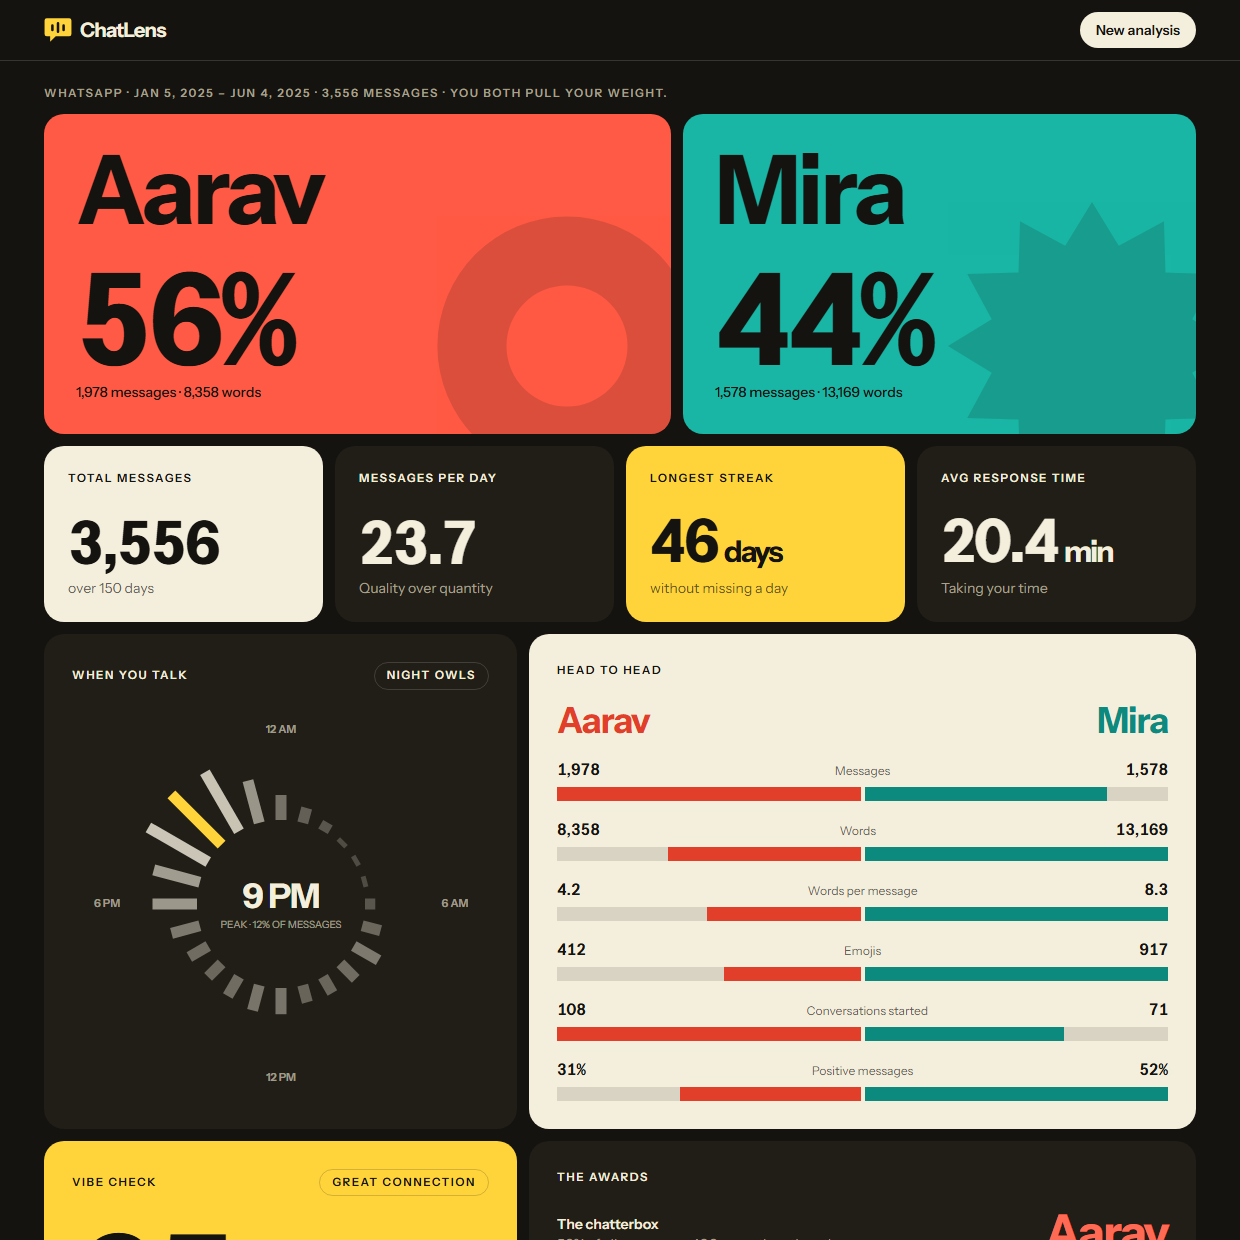
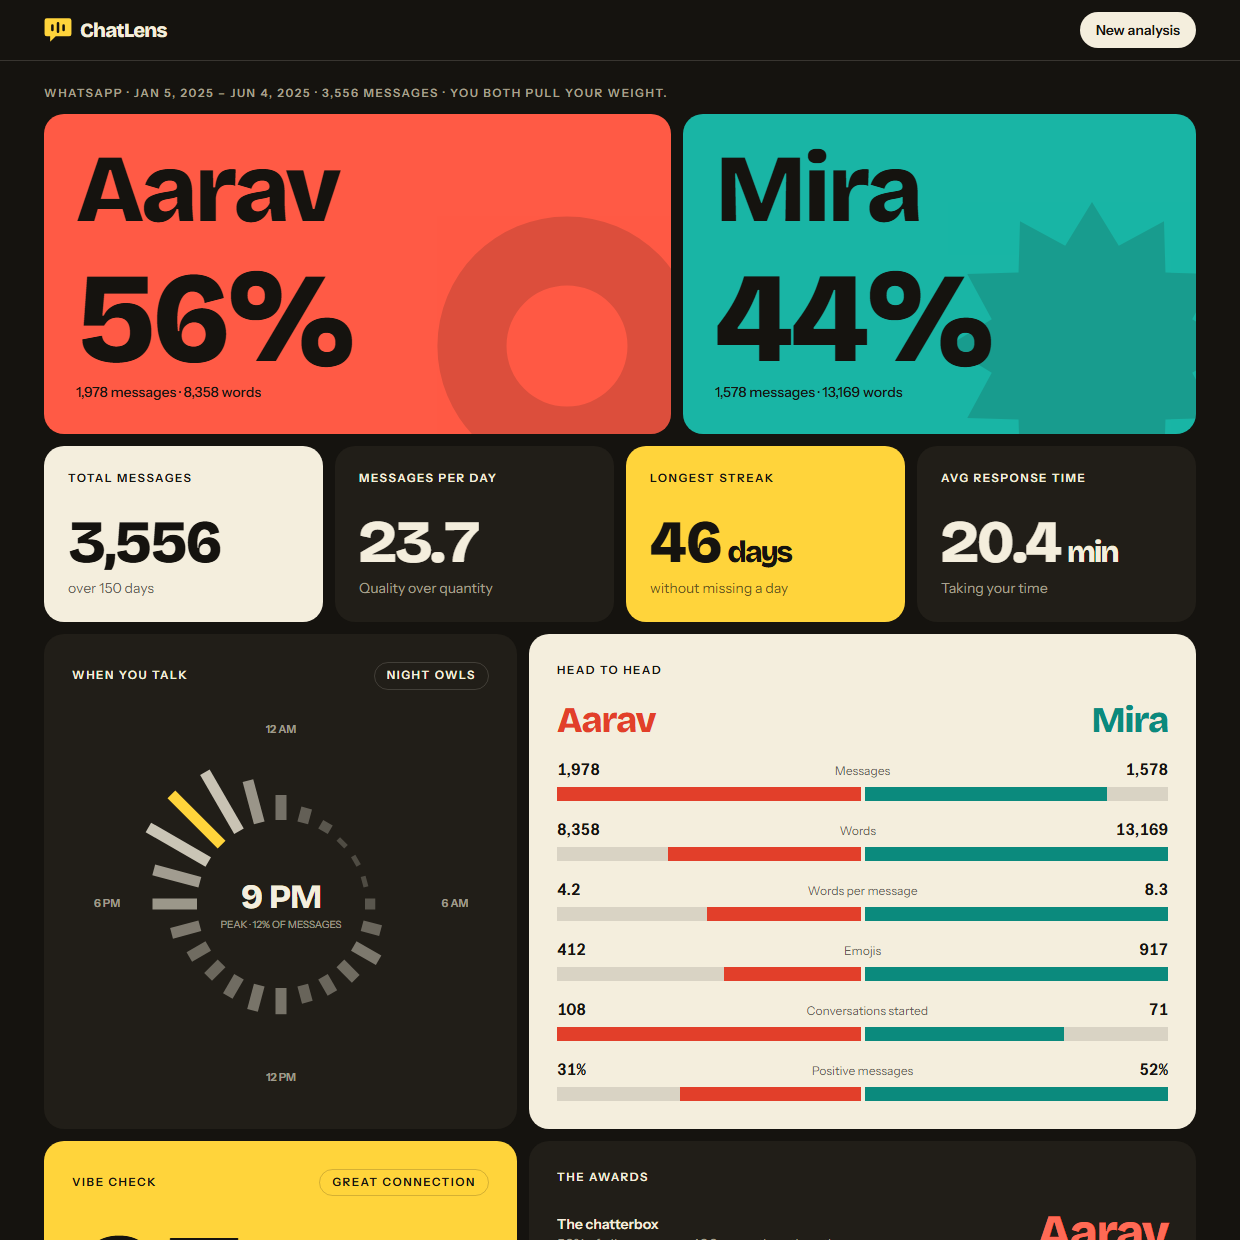
Apply the display typeface to headings and refresh screenshots
The .display class read a theme variable that Tailwind does not emit, so headings fell back to the body font. Point it at the font variable directly.

diff --git a/components/charts/activity-clock.tsx b/components/charts/activity-clock.tsx
@@ -119,7 +119,7 @@ export function ActivityClock({ data, tone = "ink", className, delay }: Activity
           fontSize="34"
           fontWeight="800"
           fill="currentColor"
-          style={{ fontFamily: "var(--font-display)", letterSpacing: "-0.03em" }}
+          style={{ fontFamily: "var(--font-heavy)", letterSpacing: "-0.03em" }}
         >
           {formatHour(shown.hour)}
         </text>

diff --git a/app/globals.css b/app/globals.css
@@ -160,7 +160,7 @@
 }
 
 .display {
-  font-family: var(--font-display);
+  font-family: var(--font-heavy), var(--font-body), system-ui, sans-serif;
   font-weight: 800;
   letter-spacing: -0.035em;
   line-height: 0.92;
